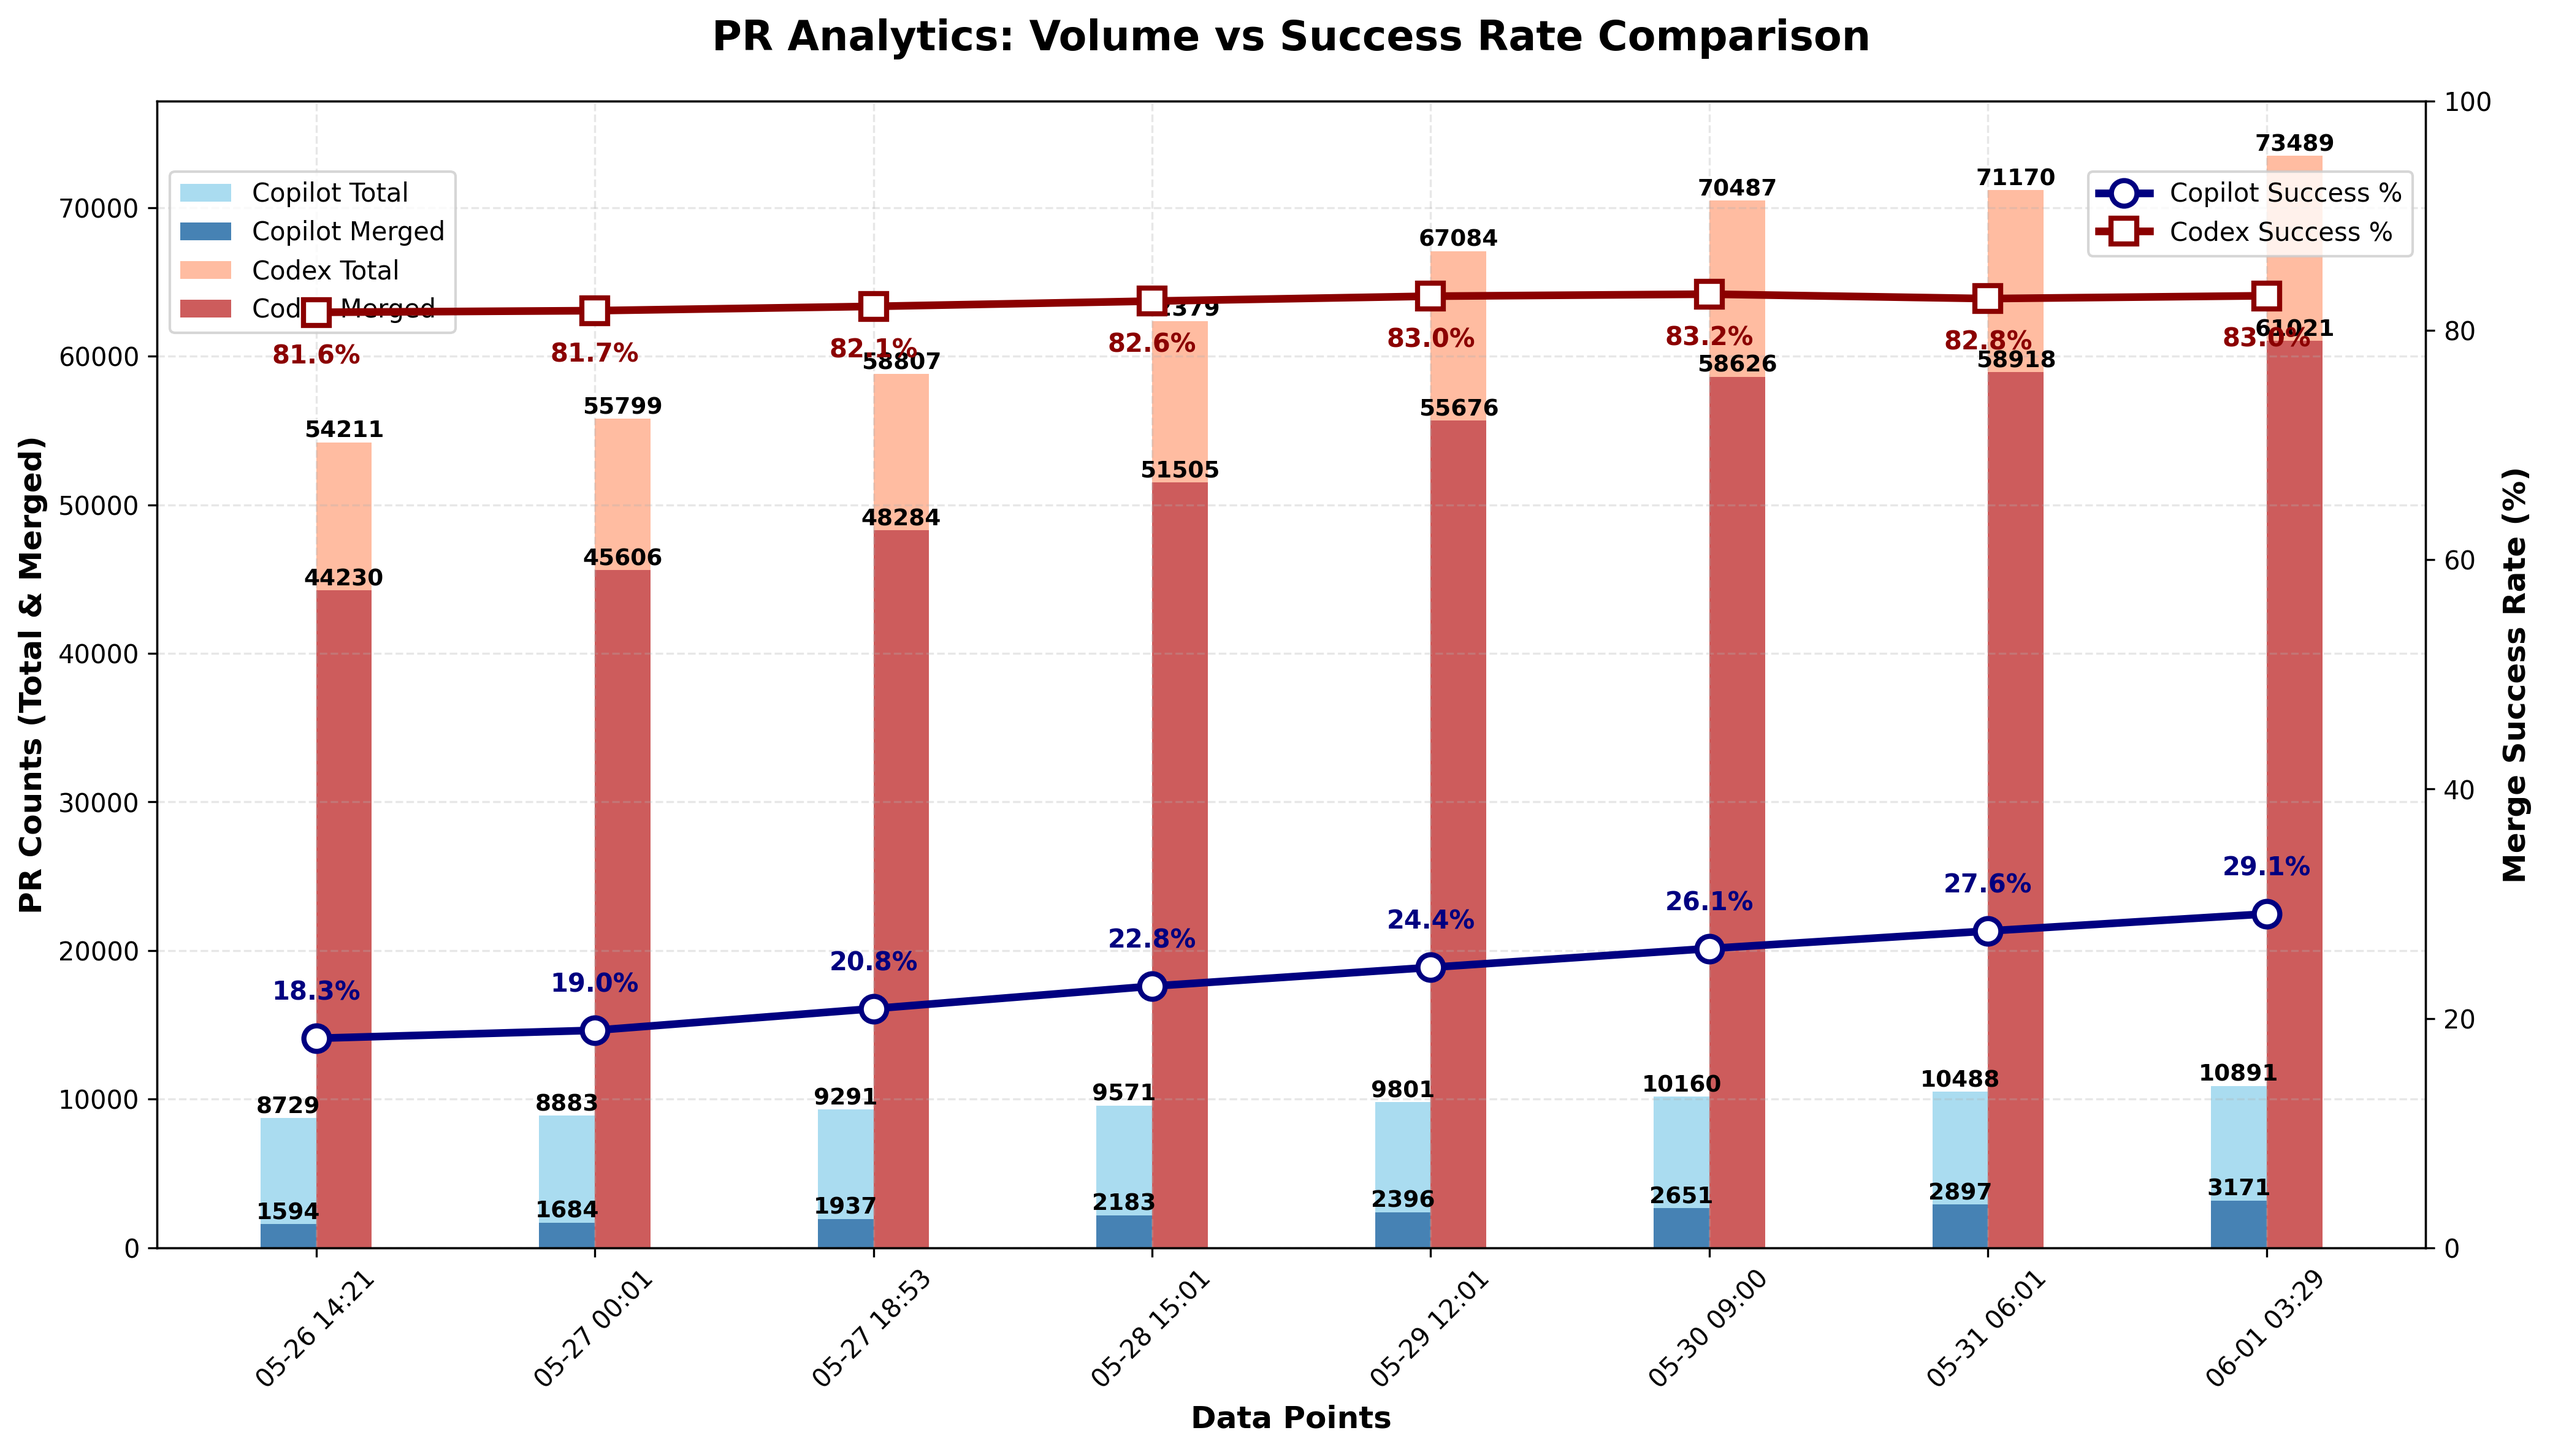
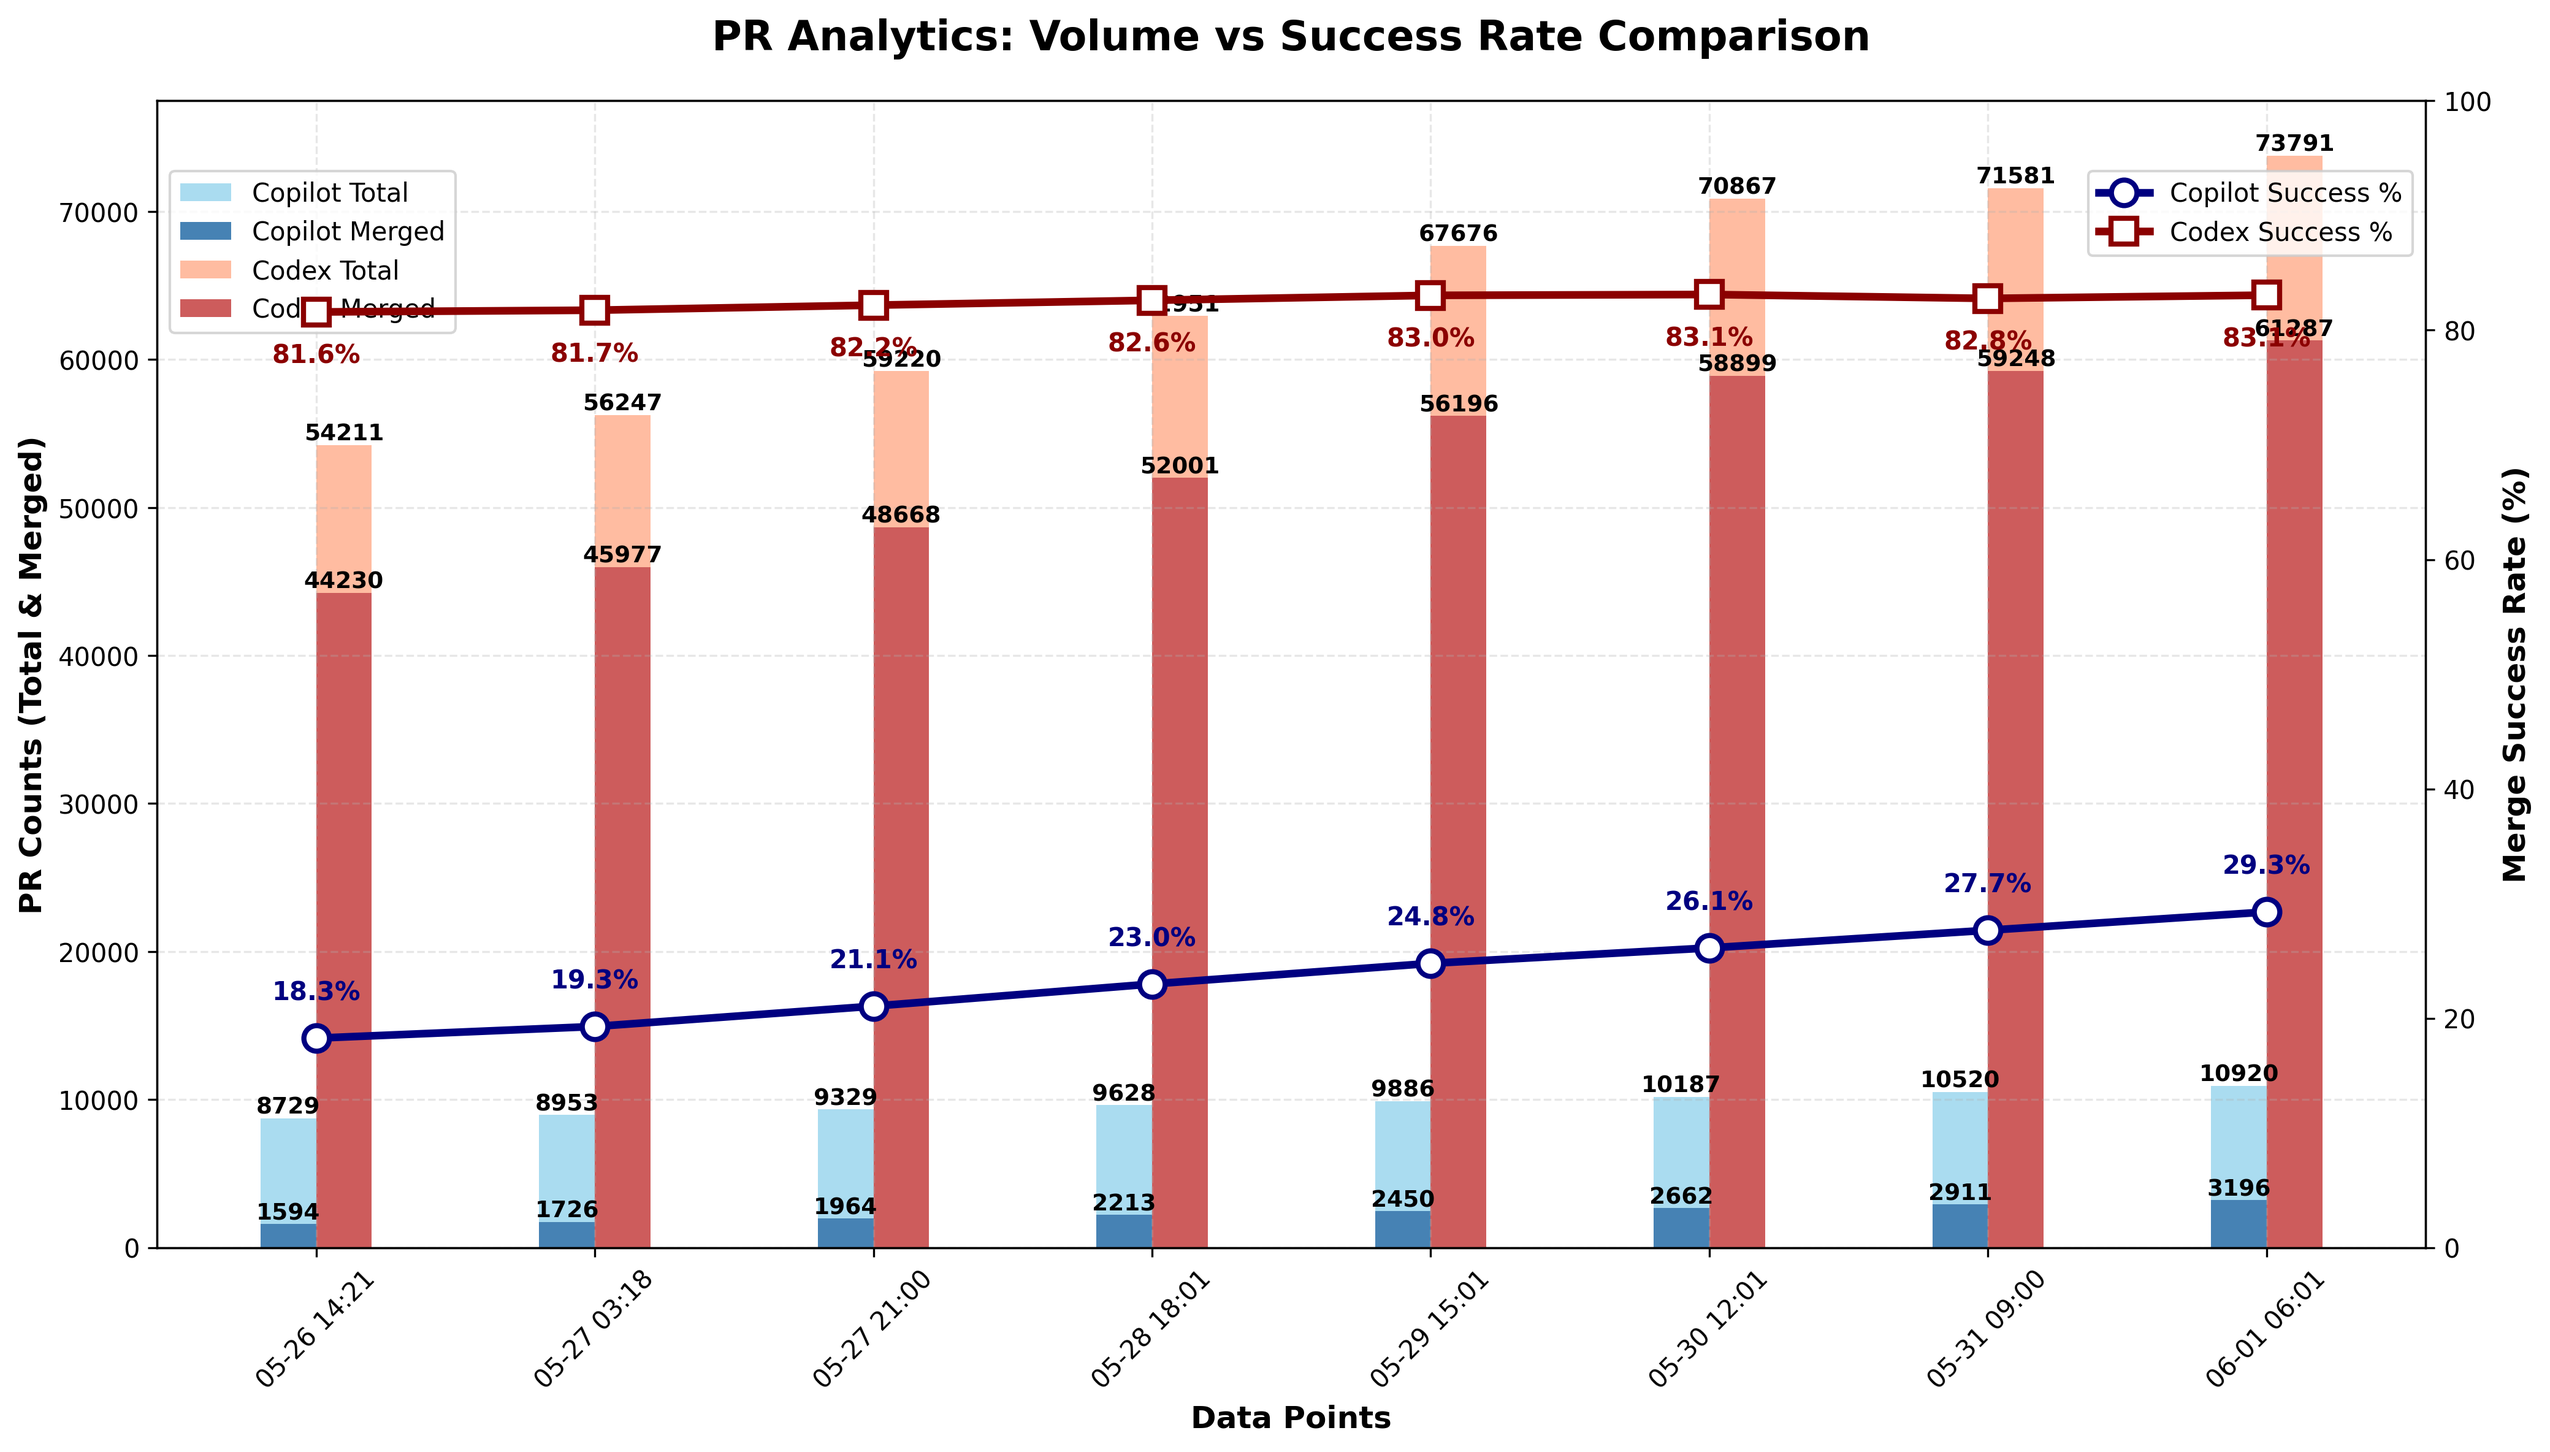
chore: update PR‑approval chart

diff --git a/docs/index.html b/docs/index.html
@@ -44,22 +44,22 @@
                 <tbody>
                     <tr>
                         <td>Copilot</td>
-                        <td>10,891</td>
-                        <td>3,171</td>
-                        <td>29.12%</td>
+                        <td>10,920</td>
+                        <td>3,196</td>
+                        <td>29.27%</td>
                     </tr>
                     <tr>
                         <td>Codex</td>
-                        <td>73,489</td>
-                        <td>61,021</td>
-                        <td>83.03%</td>
+                        <td>73,791</td>
+                        <td>61,287</td>
+                        <td>83.05%</td>
                     </tr>
                 </tbody>
             </table>
         </section>
 
         <footer>
-            <p>Last updated: <span id="last-updated">June 01, 2025 03:29 UTC</span></p>
+            <p>Last updated: <span id="last-updated">June 01, 2025 06:01 UTC</span></p>
             <p><a href="https://github.com/aavetis/ai-pr-watcher">View on GitHub</a></p>
         </footer>
     </div>

diff --git a/README.md b/README.md
@@ -19,5 +19,5 @@ Explore the GitHub search queries used:
 
 | Project | Total PRs | Merged PRs | Merge Rate |
 | ------- | --------- | ---------- | ---------- |
-| Copilot | 10,891 | 3,171 | 29.12% |
-| Codex   | 73,489 | 61,021 | 83.03% |
+| Copilot | 10,920 | 3,196 | 29.27% |
+| Codex   | 73,791 | 61,287 | 83.05% |
